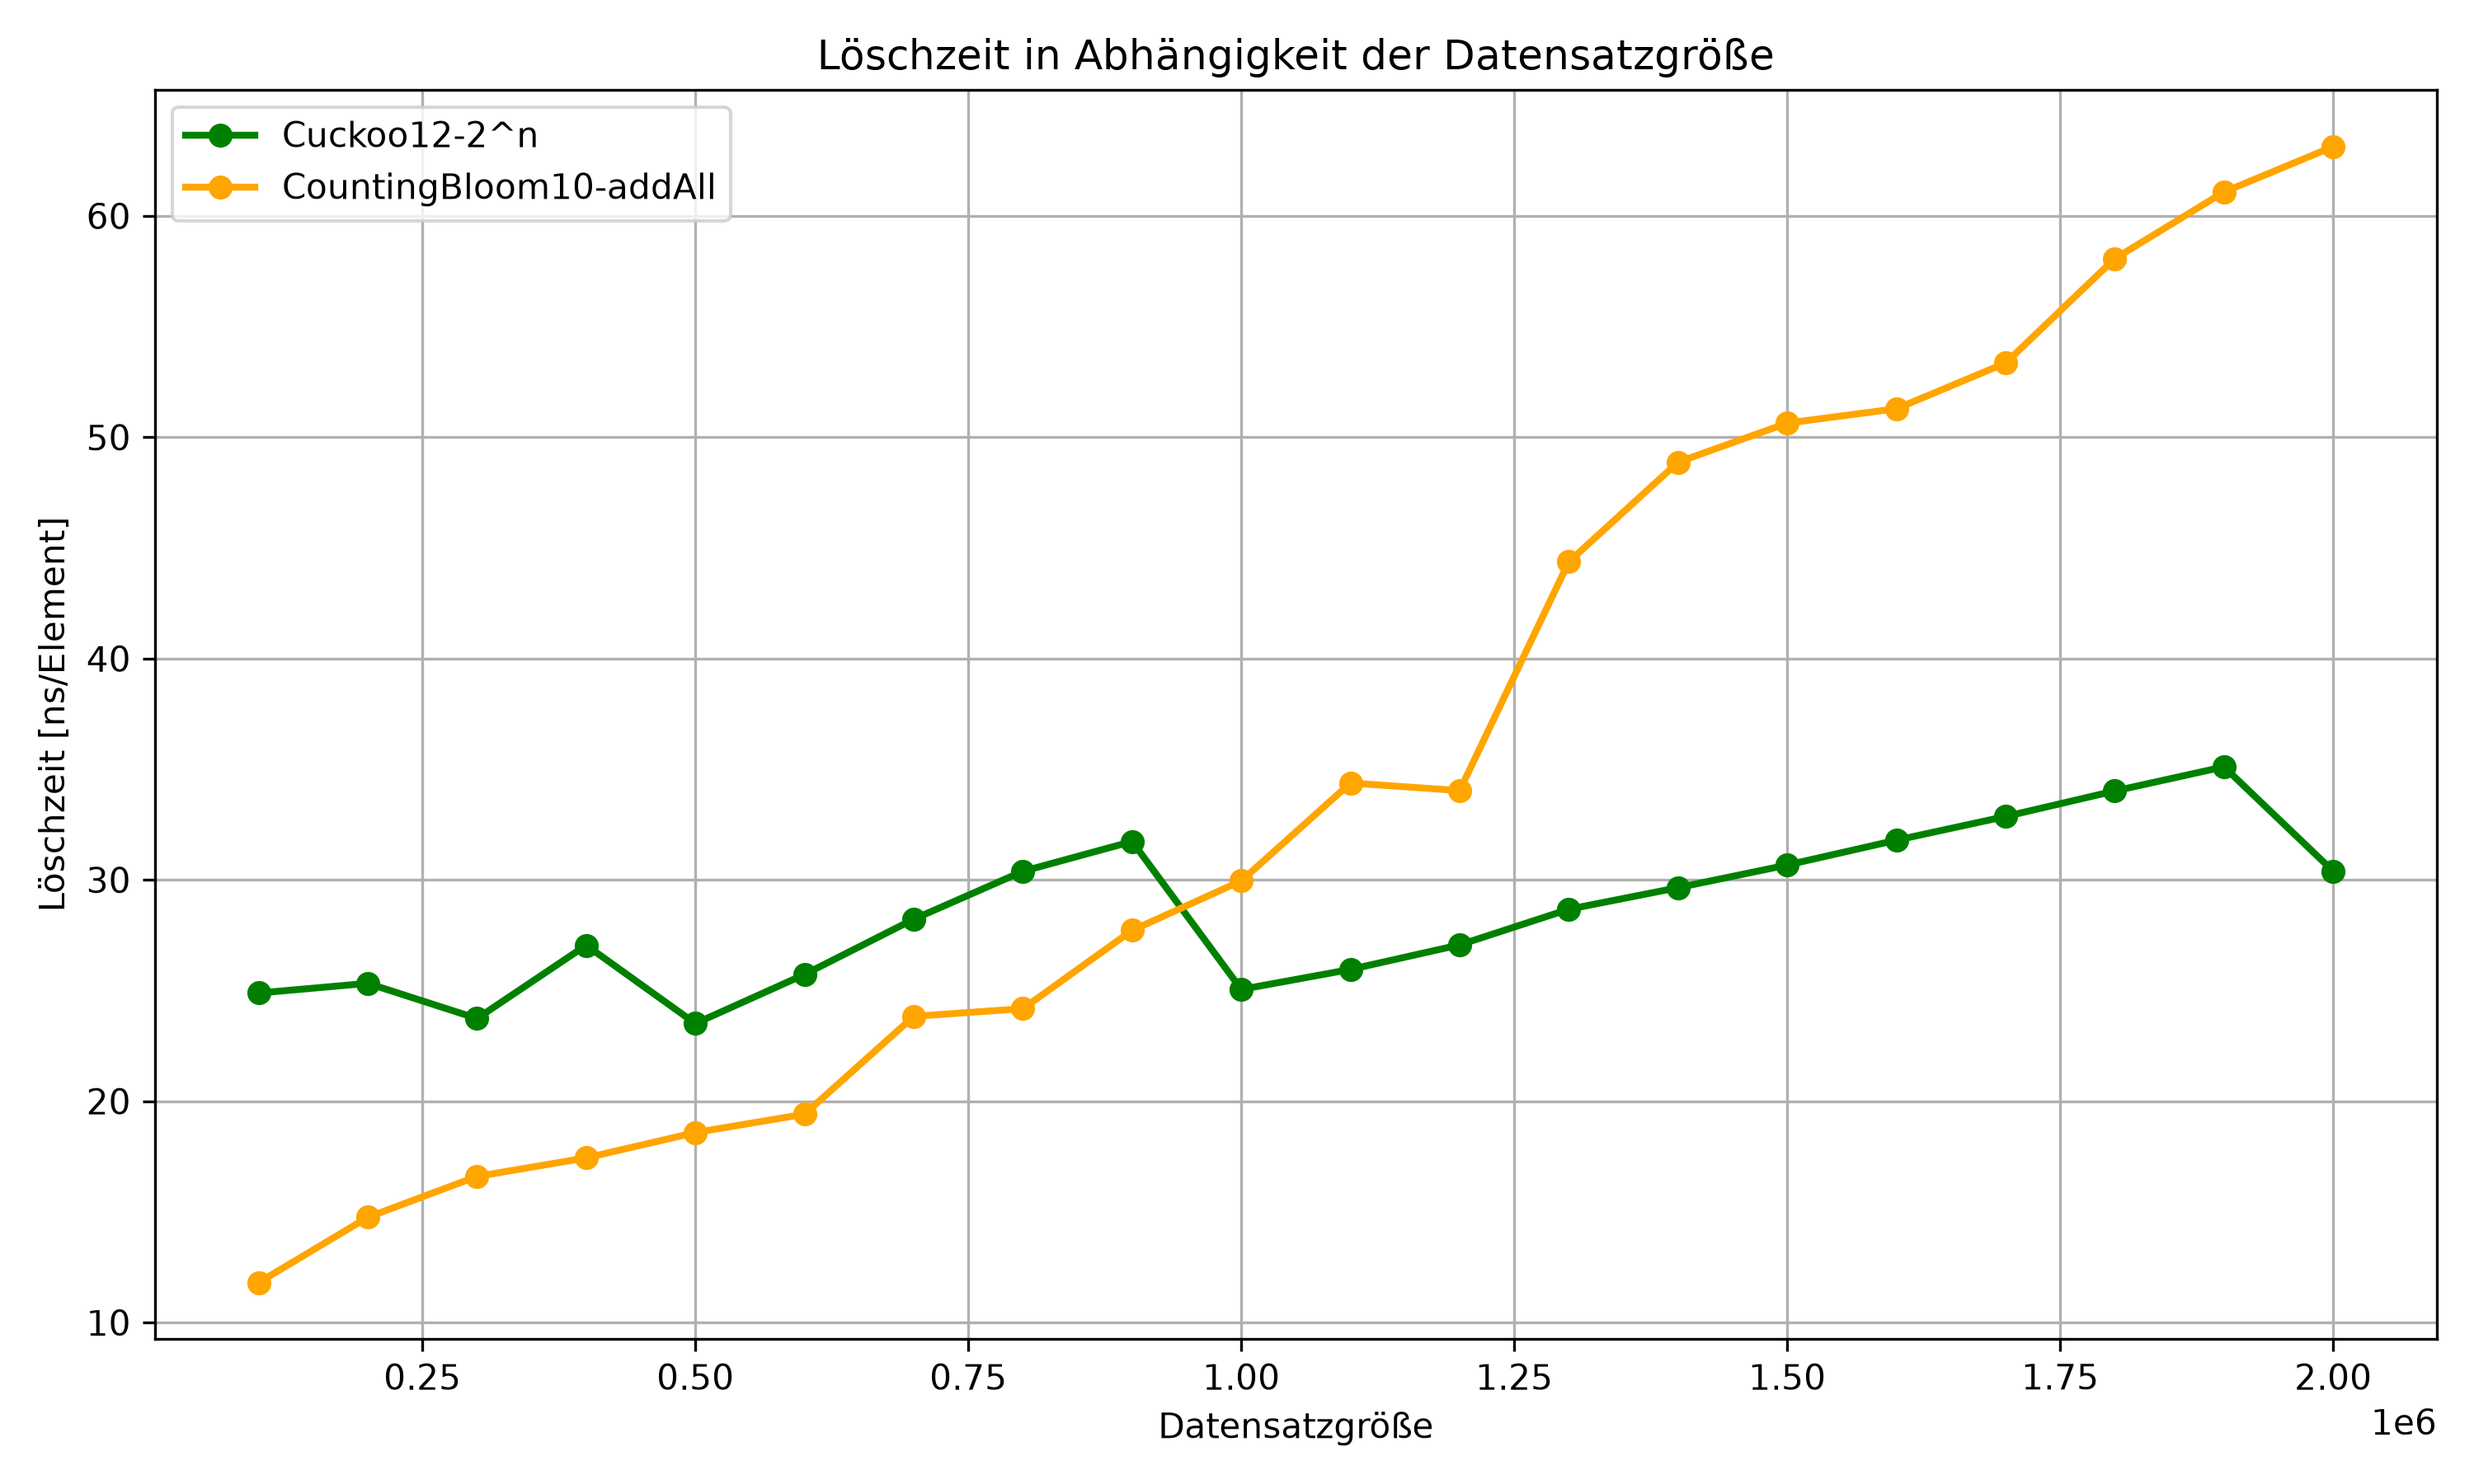
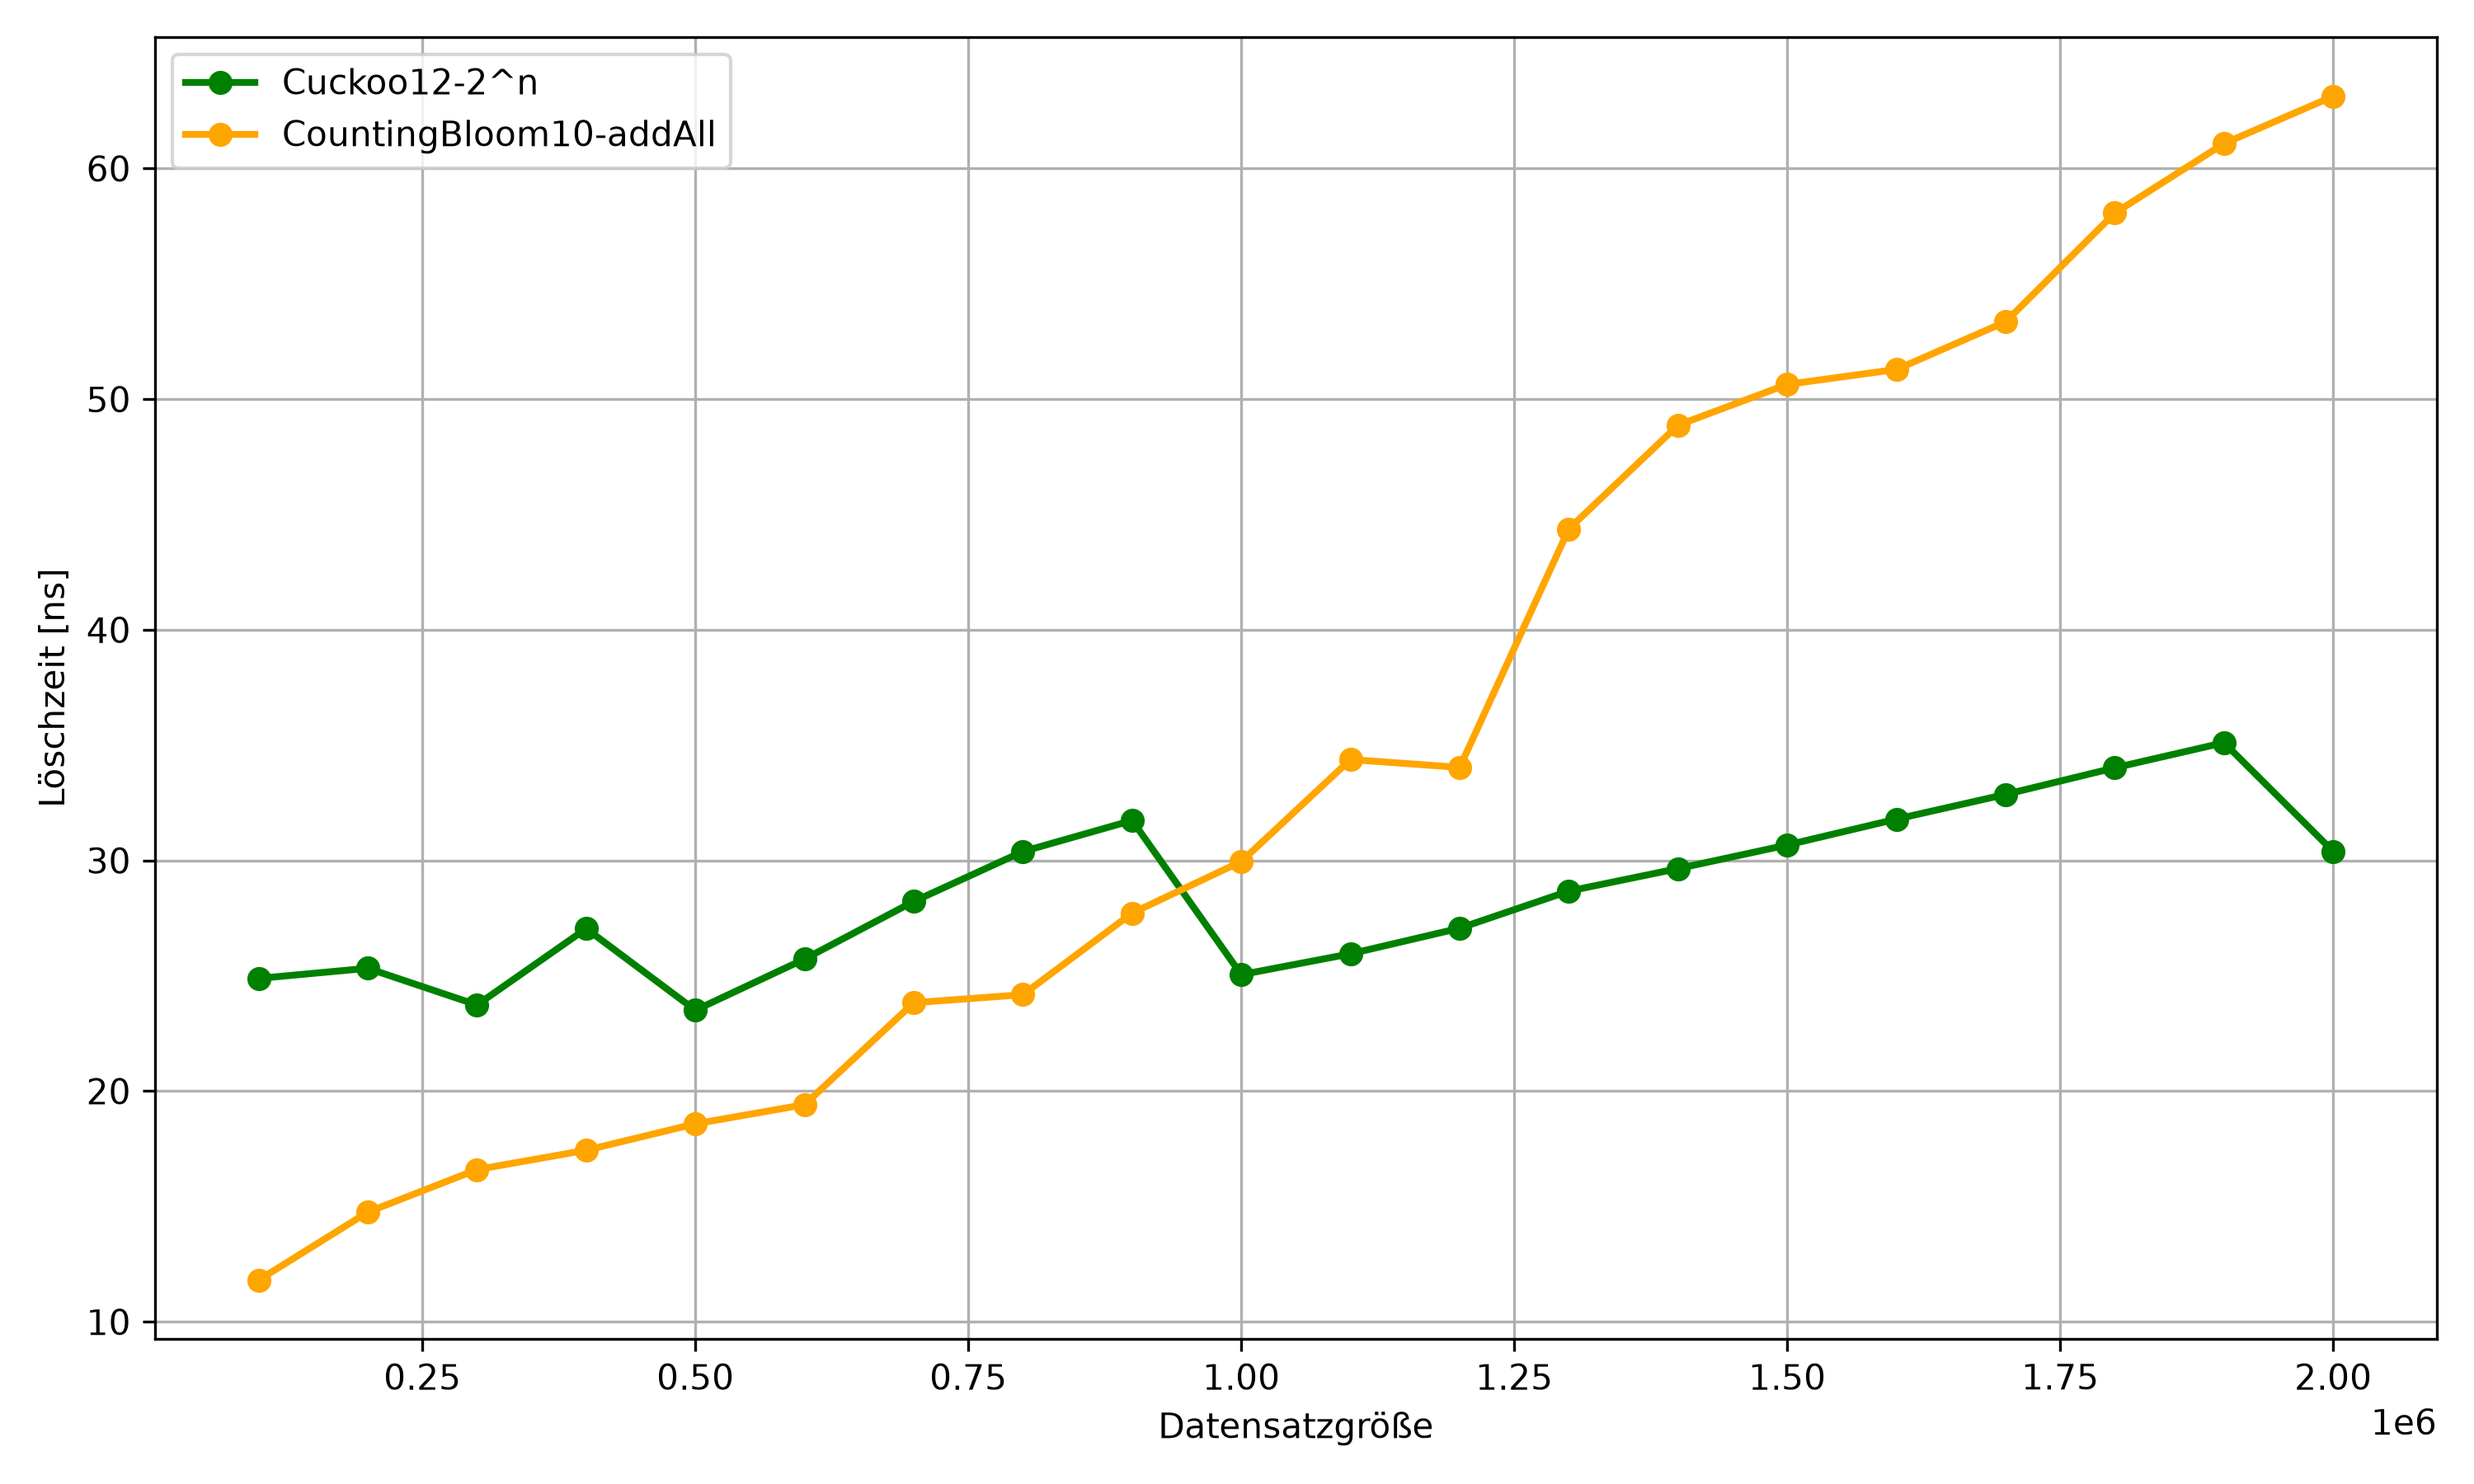
Korrektur der Diagramme

diff --git a/Experiment/benchmark/fprDiagram.py b/Experiment/benchmark/fprDiagram.py
@@ -2,7 +2,7 @@ import pandas as pd
 import matplotlib.pyplot as plt
 
 # Zusammengefasste Ergebnisse einlesen
-df = pd.read_csv("results/results_summary.csv", sep=";")
+df = pd.read_csv("results/results_explo/results_summary_explo.csv", sep=";")
 
 # Diagramm erzeugen
 plt.figure(figsize=(10, 6))
@@ -17,11 +17,10 @@ for filter_name in df["Filter"].unique():
         label=filter_name
     )
 
-plt.xscale("linear")
+plt.xscale("log")
 
 plt.xlabel("Datensatzgröße")
 plt.ylabel("False-Positive-Rate [%]")
-plt.title("False-Positive-Rate in Abhängigkeit der Datensatzgröße")
 
 plt.legend()
 plt.grid(True)

diff --git a/Experiment/benchmark/memoryDiagram.py b/Experiment/benchmark/memoryDiagram.py
@@ -2,7 +2,7 @@ import pandas as pd
 import matplotlib.pyplot as plt
 
 # Zusammengefasste Ergebnisse einlesen
-df = pd.read_csv("results_summary.csv", sep=";")
+df = pd.read_csv("results/results_explo/results_summary_explo.csv", sep=";")
 
 # Diagramm erzeugen
 plt.figure(figsize=(10, 6))
@@ -17,11 +17,10 @@ for filter_name in df["Filter"].unique():
         label=filter_name
     )
 
-plt.xscale("linear")
+plt.xscale("log")
 
 plt.xlabel("Datensatzgröße")
 plt.ylabel("Speicherbedarf [Bit/Element]")
-plt.title("Speicherbedarf in Abhängigkeit der Datensatzgröße")
 
 plt.legend()
 plt.grid(True)

diff --git a/Experiment/benchmark/insertDiagram.py b/Experiment/benchmark/insertDiagram.py
@@ -2,7 +2,7 @@ import pandas as pd
 import matplotlib.pyplot as plt
 
 # Zusammengefasste Ergebnisse einlesen
-df = pd.read_csv("results_summary.csv", sep=";")
+df = pd.read_csv("results/results_summary.csv", sep=";")
 
 # Diagramm erzeugen
 plt.figure(figsize=(10, 6))
@@ -20,8 +20,7 @@ for filter_name in df["Filter"].unique():
 plt.xscale("linear")
 
 plt.xlabel("Datensatzgröße")
-plt.ylabel("Einfüge-Zeit [ns/Element]")
-plt.title("Einfügezeit in Abhängigkeit der Datensatzgröße")
+plt.ylabel("Einfüge-Zeit [ns]")
 
 plt.legend()
 plt.grid(True)

diff --git a/Experiment/benchmark/lookupBothDiagram.py b/Experiment/benchmark/lookupBothDiagram.py
@@ -1,7 +1,7 @@
 import pandas as pd
 import matplotlib.pyplot as plt
 
-df = pd.read_csv("results_summary.csv", sep=";")
+df = pd.read_csv("results/results_explo/results_summary_explo.csv", sep=";")
 
 colors = {
     "Xor8": "red",
@@ -35,11 +35,10 @@ for filter_name in df["Filter"].unique():
         label=f"{filter_name} (-)"
     )
 
-plt.xscale("linear")
+plt.xscale("log")
 
 plt.xlabel("Datensatzgröße")
 plt.ylabel("Anfrage-Zeit [ns]")
-plt.title("Positive und negative Anfrage-Zeiten")
 
 plt.legend()
 plt.grid(True)

diff --git a/Experiment/benchmark/deleteDiagram.py b/Experiment/benchmark/deleteDiagram.py
@@ -2,7 +2,7 @@ import pandas as pd
 import matplotlib.pyplot as plt
 
 # Daten laden
-df = pd.read_csv("results_summary.csv", sep=";")
+df = pd.read_csv("results/results_summary.csv", sep=";")
 
 plt.figure(figsize=(10, 6))
 
@@ -27,8 +27,7 @@ for filter_name, color in filter_colors.items():
 plt.xscale("linear")
 
 plt.xlabel("Datensatzgröße")
-plt.ylabel("Löschzeit [ns/Element]")
-plt.title("Löschzeit in Abhängigkeit der Datensatzgröße")
+plt.ylabel("Löschzeit [ns]")
 
 plt.legend()
 plt.grid(True)
